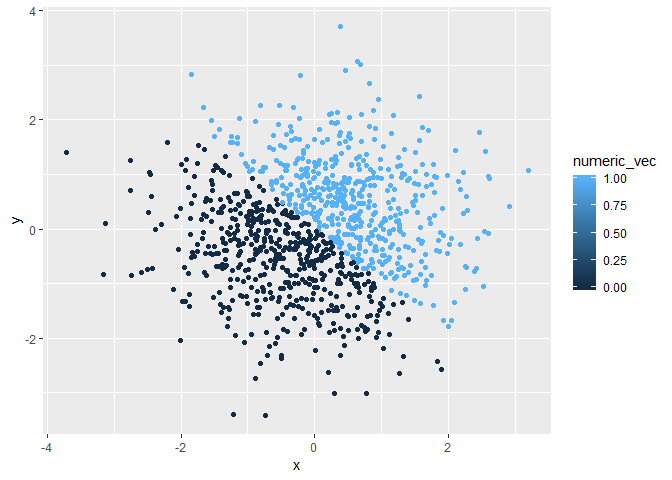
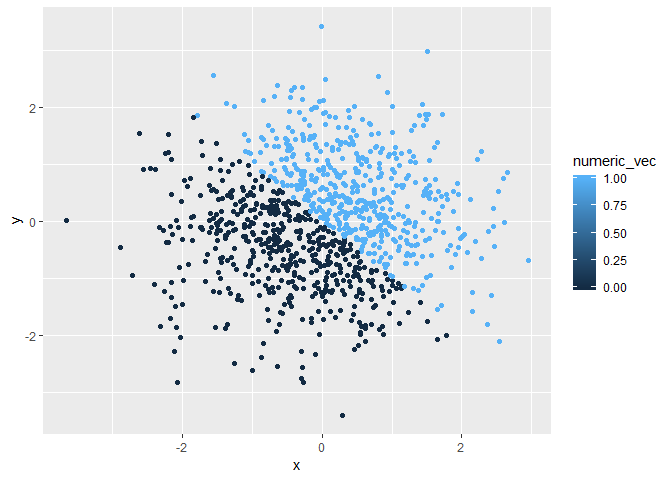
scatterplot 1 save

diff --git a/p8105_hw1_smi2112.md b/p8105_hw1_smi2112.md
@@ -10,14 +10,14 @@ Creating the data frame:
 library(tidyverse)
 ```
 
-    ## -- Attaching packages ------------------------ tidyverse 1.2.1 --
+    ## -- Attaching packages -------------------------------------- tidyverse 1.2.1 --
 
     ## v ggplot2 3.0.0     v purrr   0.2.5
     ## v tibble  1.4.2     v dplyr   0.7.6
     ## v tidyr   0.8.1     v stringr 1.3.1
     ## v readr   1.1.1     v forcats 0.3.0
 
-    ## -- Conflicts --------------------------- tidyverse_conflicts() --
+    ## -- Conflicts ----------------------------------------- tidyverse_conflicts() --
     ## x dplyr::filter() masks stats::filter()
     ## x dplyr::lag()    masks stats::lag()
 
@@ -36,13 +36,13 @@ Attempting to take the mean of each variable in the data frame:
 mean(question_one_df$random_samp)
 ```
 
-    ## [1] 2.389635
+    ## [1] 2.915935
 
 ``` r
 mean(question_one_df$logical_vec)
 ```
 
-    ## [1] 0.6
+    ## [1] 0.7
 
 ``` r
 mean(question_one_df$char_vec)
@@ -62,7 +62,7 @@ mean(question_one_df$factor_vec)
 
     ## [1] NA
 
-The mean of the random sample is 2.3896353, and the mean of the logical vector is 0.6.
+The mean of the random sample is 2.9159352, and the mean of the logical vector is 0.7.
 
 The mean of the random sample works because the vector is made up of numbers generated by the runif() function, and r is able to take the mean of numbers. The mean of the logical vector also works because the logical vector codes TRUE statements as 1 and FALSE statements as 0. The mean of the 1's and 0's is taken.
 
@@ -83,7 +83,7 @@ question_two_df <- tibble(
 )
 ```
 
-The size of the dataset is 1000, 5. The mean of x is 0.0156567 and the median of x is 0.0352735. The proportion of cases for which the logical vector is true is 0.501.
+The size of the dataset is 1000, 5. The mean of x is -0.010254 and the median of x is 0.0214514. The proportion of cases for which the logical vector is true is 0.503.
 
 Creating the first scatterplot with color points using the logical variable:
 
@@ -108,3 +108,13 @@ ggplot(question_two_df, aes(x = x, y = y, color = factor_vec)) + geom_point()
 ```
 
 ![](p8105_hw1_smi2112_files/figure-markdown_github/unnamed-chunk-6-1.png)
+
+The color scale in the first scatterplot is binary, which makes sense becuase the logical vector only has two options (TRUE of FALSE). The color scale in the second scatterplot is continuous on a scale from 0 to 1, which makes sense because we are coloring a numeric variable that has a minimum of 0 and a maximum of 1. However, because the values will either be 0 or 1, we only see the extreme ends of the color scale (the color that corresponds with 0 and the color scale that corresponds with 1). The color scale in the third scatterplot is binary again, which makes sense
+
+Exporting the first scatterplot to th project directory:
+
+``` r
+ggplot(question_two_df, aes(x = x, y = y, color = logical_vec)) + geom_point()
+```
+
+![](p8105_hw1_smi2112_files/figure-markdown_github/unnamed-chunk-7-1.png)
